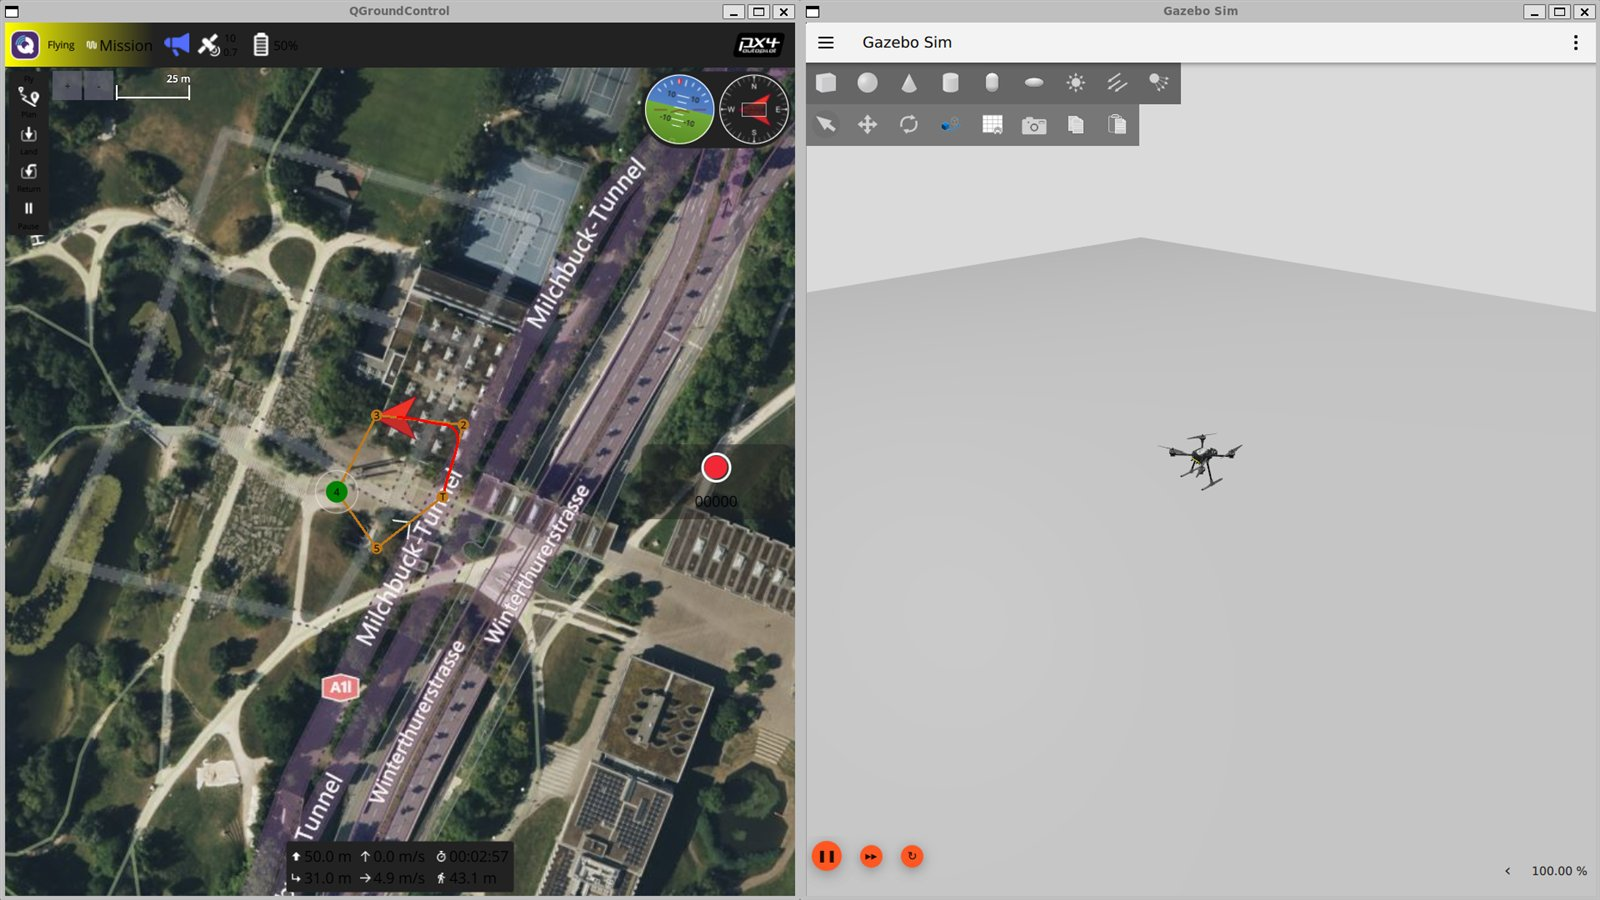
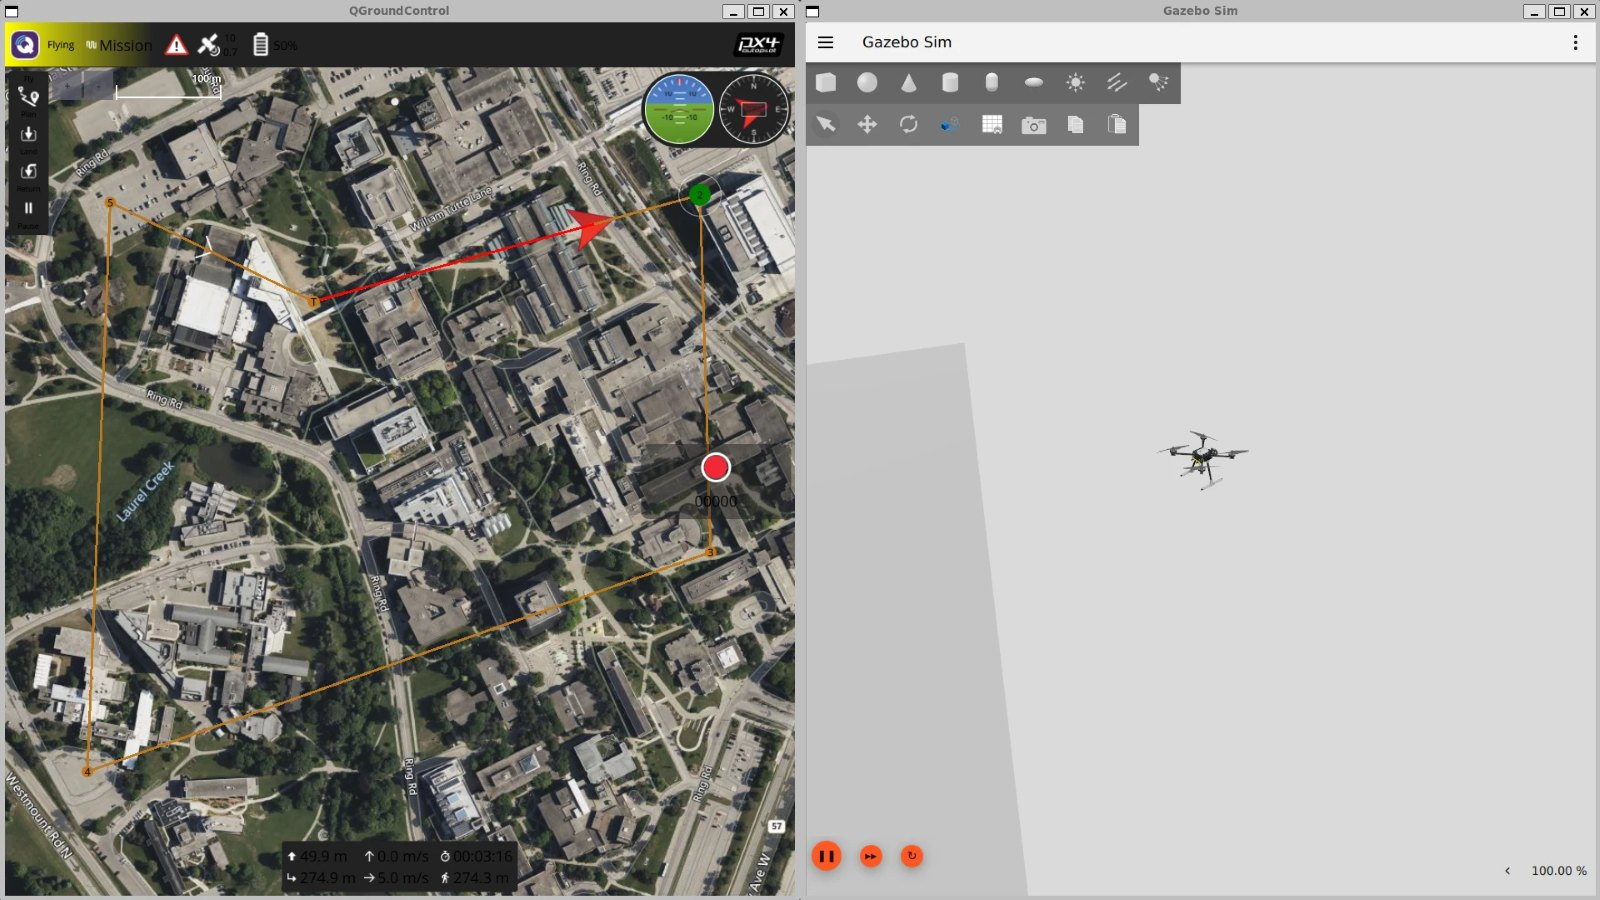
Use the new PX4 SITL mission screenshot

diff --git a/index.html b/index.html
@@ -141,7 +141,7 @@
       <p class="sub">Testing the quadcopter's flight software in software-in-the-loop simulation before trusting it on real hardware: PX4 built from source, a simulated quad in Gazebo, and QGroundControl as the ground station.</p>
     </div>
     <figure class="media wrap reveal">
-      <a href="https://github.com/ryanzhang-ca/px4-sitl-experiments" target="_blank" rel="noopener" tabindex="-1" aria-hidden="true"><img src="images/px4-sitl-flight.jpg" alt="A simulated waypoint mission: QGroundControl on the left shows the planned route over a satellite map and the path flown so far; Gazebo on the right shows the simulated quadcopter hovering." width="1600" height="900" loading="lazy"></a>
+      <a href="https://github.com/ryanzhang-ca/px4-sitl-experiments" target="_blank" rel="noopener" tabindex="-1" aria-hidden="true"><img src="images/px4-sitl-flight.jpg" alt="A simulated waypoint mission: QGroundControl on the left shows the planned route over a satellite map of the University of Waterloo campus and the path flown so far; Gazebo on the right shows the simulated quadcopter in flight." width="1600" height="900" loading="lazy"></a>
       <figcaption>Fig. 2 — A waypoint mission in simulation: QGroundControl (left) and the simulated quadcopter in Gazebo (right).</figcaption>
     </figure>
     <ol class="tiles wrap reveal stagger">
